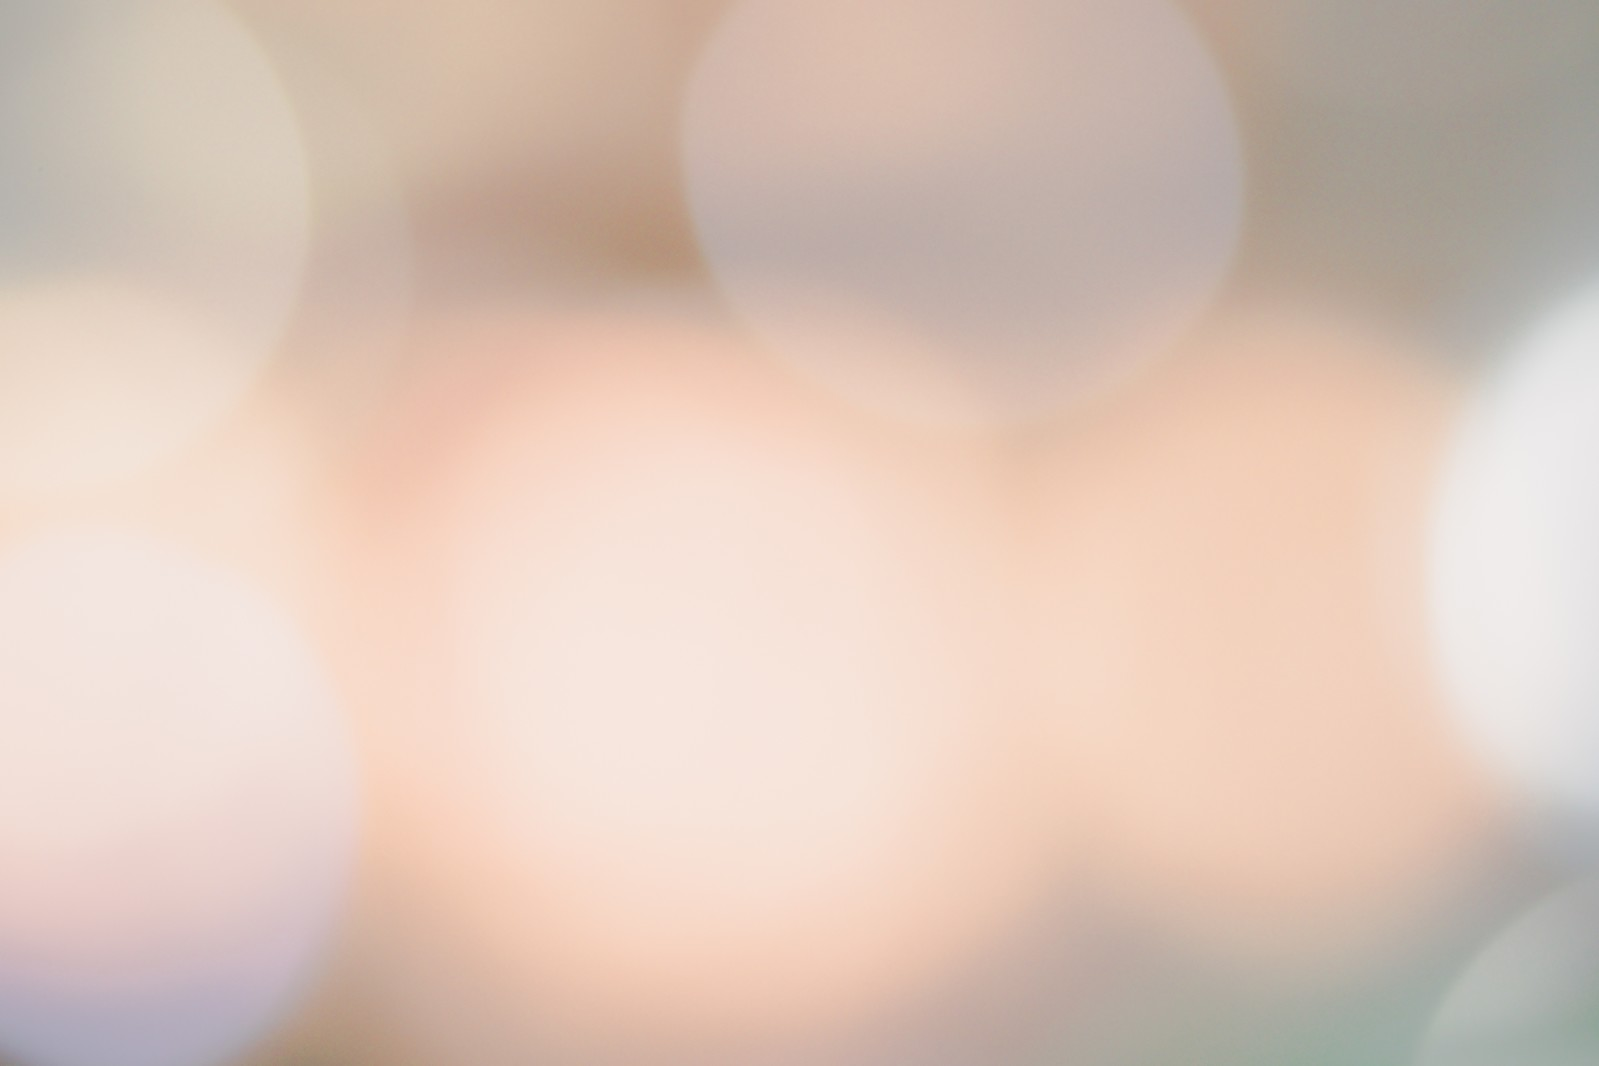
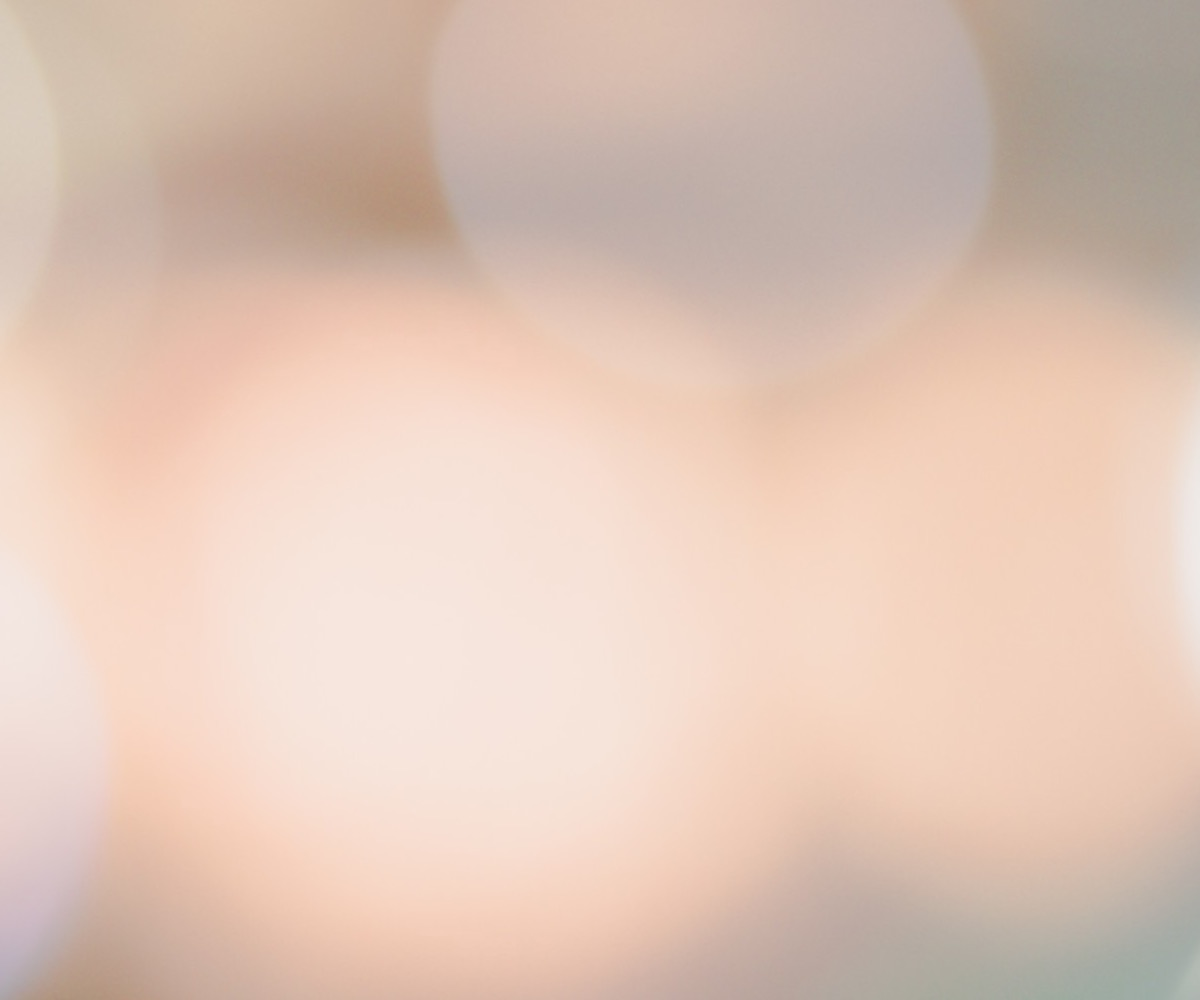
MemberCard に写真を追加

diff --git a/app/src/component/organism/list/MemberList/index.tsx b/app/src/component/organism/list/MemberList/index.tsx
@@ -11,24 +11,28 @@ export const MemberList = ({ className }: Props) => {
   const members = useMemo<Member[]>(() => {
     return [
       {
+        key: 'tsuno',
         name: 'つの',
         nicknames: ['つのの', 'ダイソン'],
         descriptions: ['一番大きくて、ご飯をダイソンのように吸い尽くす笑', '尾鰭に小さいツノのような出っ張りがある'],
         birthday: '2021年06月25日'
       },
       {
+        key: 'haku',
         name: 'はく',
         nicknames: ['はくた', '美人さん'],
         descriptions: ['ブクブクの泡を食べるのが大好きで、いつもモグモグしてる', '顔が美形で目が綺麗。とにかく美しい'],
         birthday: '2021年06月25日'
       },
       {
+        key: 'beni',
         name: 'べに',
         nicknames: ['べにに', 'ぷりり'],
         descriptions: ['泳ぎが下手で、いつも全身を使ってぷりぷり泳ぐ', 'みんなにちょっかいをだすヤンチャっ子'],
         birthday: '2021年06月25日'
       },
       {
+        key: 'kama',
         name: 'かま',
         nicknames: ['かまたん', 'ねぼすけ'],
         descriptions: [
@@ -38,12 +42,14 @@ export const MemberList = ({ className }: Props) => {
         birthday: '2022年06月26日'
       },
       {
+        key: 'maru',
         name: 'まる',
         nicknames: ['まるたん', 'ひげちゃん'],
         descriptions: ['一番スタイルが良く、フォルムが丸い', '口の周りが赤いので、夫に「髭生えとる笑」と揶揄われる'],
         birthday: '2022年06月26日'
       },
       {
+        key: 'mase',
         name: 'ませ',
         nicknames: ['ませたん', 'ませらー'],
         descriptions: [
@@ -58,14 +64,14 @@ export const MemberList = ({ className }: Props) => {
   return (
     <Container className={className}>
       {members.map((member) => {
-        return <MemberCard key={member.name} member={member} />
+        return <MemberCard key={member.key} member={member} />
       })}
     </Container>
   )
 }
 
 const Container = styled.div`
-  padding: 40px 0;
+  padding: 60px 0;
   display: grid;
   grid-template-columns: 1fr;
   gap: 20px;

diff --git a/app/src/component/organism/card/MemberCard/index.tsx b/app/src/component/organism/card/MemberCard/index.tsx
@@ -1,7 +1,8 @@
+import Image from 'next/image'
 import { useCallback, useMemo, useState } from 'react'
 import styled from 'styled-components'
 
-import { BackgroundColor, TextColor } from '~/token'
+import { BorderColor, TextColor } from '~/token'
 import { Card } from '~/component/atom/Card'
 import { MemberModalDialog } from '~/component/organism/dialog/MemberModalDialog'
 
@@ -12,6 +13,7 @@ interface Props {
 }
 
 export interface Member {
+  key: string
   name: string
   nicknames: string[]
   descriptions: string[]
@@ -26,6 +28,10 @@ export const MemberCard = ({ member, className }: Props) => {
     return `${member.name}（${nicknames}）`
   }, [member])
 
+  const src = useMemo(() => {
+    return `/member/${member.key}.jpg`
+  }, [member.key])
+
   const handleContainerClick = useCallback(() => {
     setIsOpenModalDialog(true)
   }, [])
@@ -38,7 +44,15 @@ export const MemberCard = ({ member, className }: Props) => {
     <>
       <Container name={name} className={className} onClick={handleContainerClick}>
         <Content>
-          <Photo>ここに写真</Photo>
+          <Photo>
+            <Image
+              src={src}
+              alt={'beni'}
+              width={1200}
+              height={1000}
+              style={{ width: '100%', height: 'auto', transition: '0.2s' }}
+            />
+          </Photo>
 
           <Description>
             {member.descriptions.map((description) => {
@@ -59,11 +73,10 @@ export const MemberCard = ({ member, className }: Props) => {
 }
 
 const Container = styled(Card)`
-  transition: 0.2s;
   cursor: pointer;
 
-  &:hover {
-    opacity: 0.7;
+  &:hover img {
+    transform: scale(1.2);
   }
 `
 
@@ -75,9 +88,9 @@ const Content = styled.div`
 `
 
 const Photo = styled.div`
-  flex: 0 0 300px;
-  height: 200px;
-  background-color: ${BackgroundColor.Img};
+  display: flex;
+  border: 2px solid ${BorderColor.Card};
+  overflow: hidden;
 `
 
 const Description = styled.div`

diff --git a/app/src/token/color.ts b/app/src/token/color.ts
@@ -1,12 +1,15 @@
 // primitive
-type PrimitiveValue = typeof Gray[keyof typeof Gray] | typeof Orange[keyof typeof Orange] | typeof Blue[keyof typeof Blue]
+type PrimitiveValue =
+  | typeof Gray[keyof typeof Gray]
+  | typeof Orange[keyof typeof Orange]
+  | typeof Blue[keyof typeof Blue]
 
 const Gray = {
   1000: '#222',
   800: '#333',
   600: '#444',
   400: '#ebebeb',
-  200: '#f7f7f7',
+  200: '#f7f7f7'
 } as const satisfies {
   [key: number]: string
 }
@@ -35,7 +38,7 @@ export const TextColor = {
   Footer: Gray[200],
   Link: Orange[600],
   LinkFooter: Orange[200],
-  Definition: Orange[800],
+  Definition: Orange[800]
 } as const satisfies {
   [key: string]: PrimitiveValue
 }
@@ -44,10 +47,15 @@ export const BackgroundColor = {
   Body: Gray[200],
   Header: Orange[600],
   Footer: Gray[600],
-  Img: Gray[200],
   Card: Gray[400],
-  GradationLeft: Blue[200],
-  GradationRight: Orange[200],
+  FirstViewLeft: Blue[200],
+  FirstViewRight: Orange[200]
+} as const satisfies {
+  [key: string]: PrimitiveValue
+}
+
+export const BorderColor = {
+  Card: Gray[200]
 } as const satisfies {
   [key: string]: PrimitiveValue
 }

diff --git a/app/src/pages/index.tsx b/app/src/pages/index.tsx
@@ -167,7 +167,7 @@ const FirstViewContent = styled(Content)`
   flex-direction: column;
   justify-content: center;
   height: 100vh;
-  background-image: linear-gradient(45deg, ${BackgroundColor.GradationLeft} 0%, ${BackgroundColor.GradationRight} 100%);
+  background-image: linear-gradient(45deg, ${BackgroundColor.FirstViewLeft} 0%, ${BackgroundColor.FirstViewRight} 100%);
 `
 
 const Title = styled.div`

diff --git a/app/src/component/organism/dialog/MemberModalDialog/index.tsx b/app/src/component/organism/dialog/MemberModalDialog/index.tsx
@@ -21,8 +21,8 @@ export const MemberModalDialog = ({ isOpen, className, onClose }: Props) => {
             <Image
               src={'/member/sample.jpg'}
               alt={'sample'}
-              width={1599}
-              height={1066}
+              width={1200}
+              height={1000}
               style={{ width: '100%', height: 'auto' }}
             />
           </Content>
